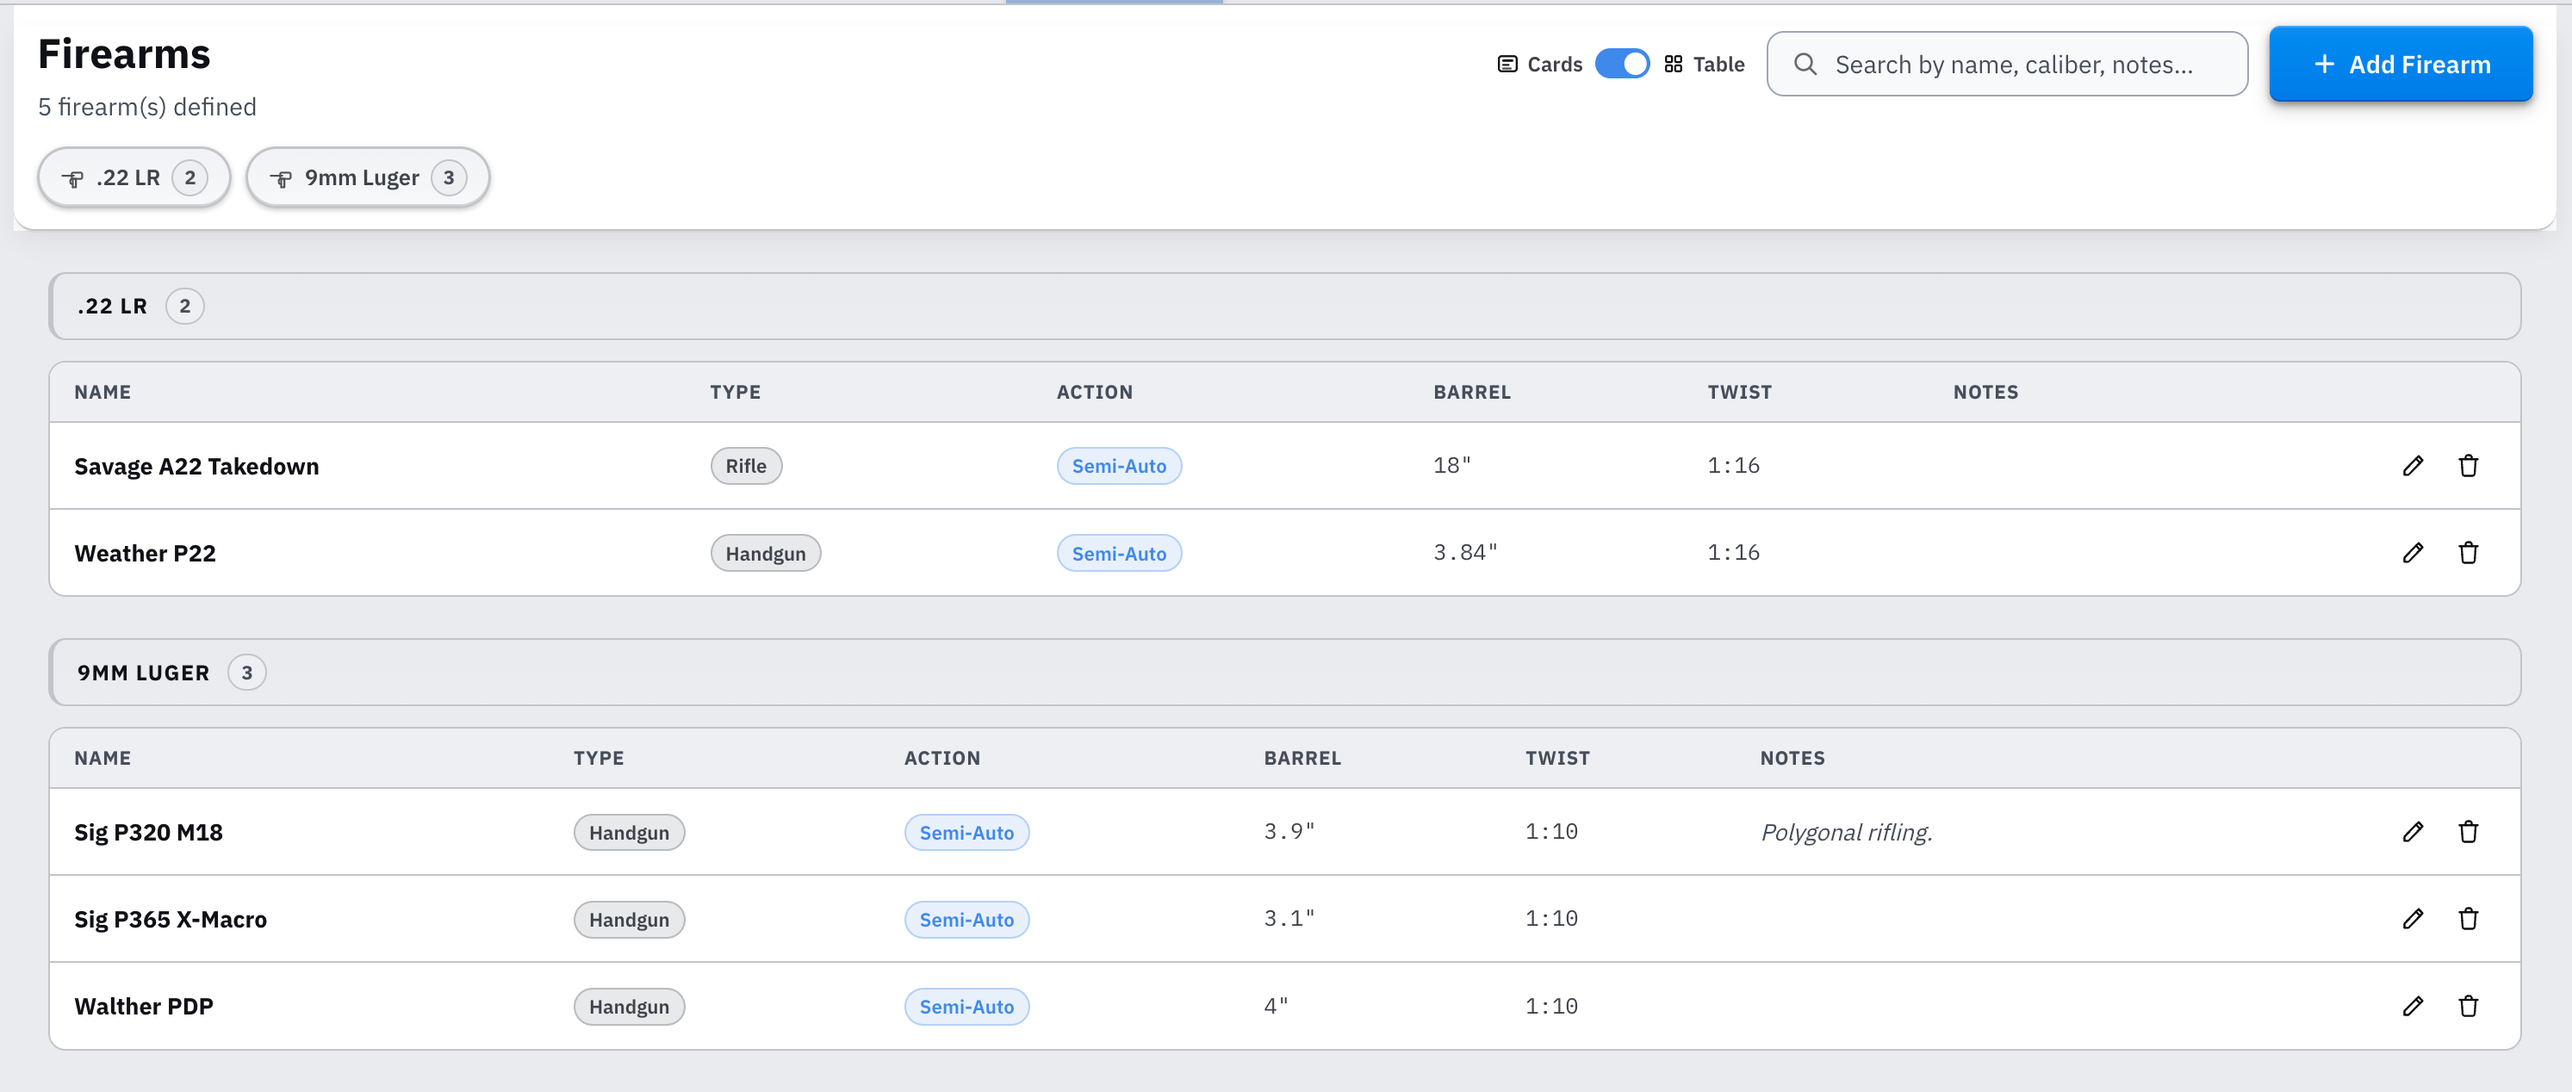
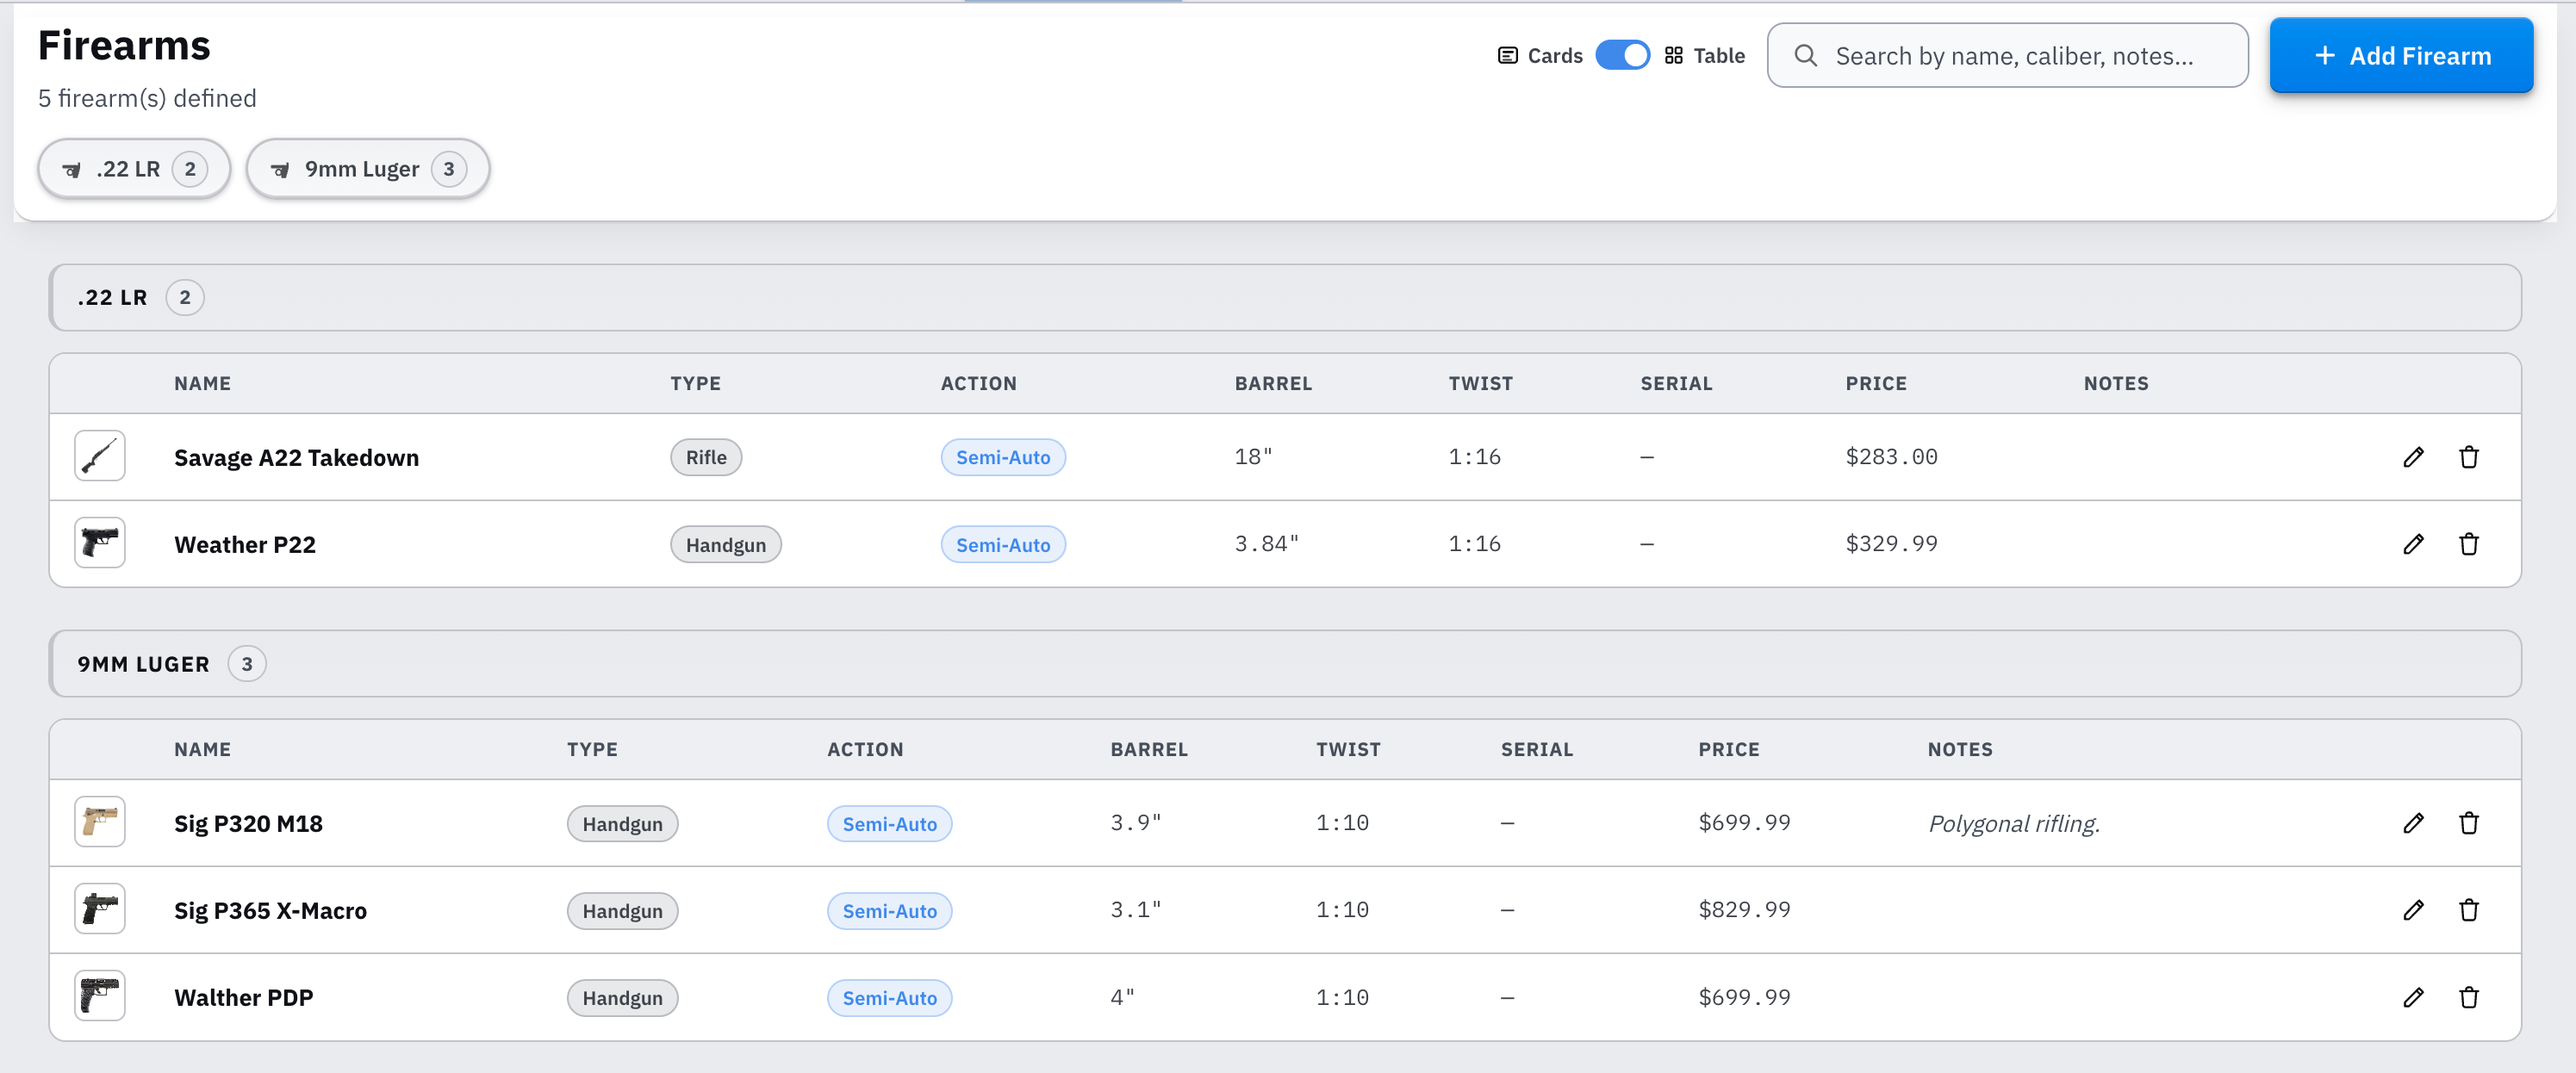
Updated firearm information and foto, brass information.

diff --git a/README.md b/README.md
@@ -1,4 +1,4 @@
-# Reloading Tracker 2.7.1: User Guide
+# Reloading Tracker 2.8.1: User Guide
 
 Reloading Tracker is your complete bench-to-range companion. It starts as a production log: define your loads, record every pressing session with a unique lot number, and print a label for every box on your shelf. And it grows with you from there.
 
@@ -158,7 +158,7 @@ The application has seven main tabs accessible from the navigation bar at the to
 |-----|---------|
 | **My Ammo** | Library of all your ammo entries: reloads and factory |
 | **My Components** | Global catalog of reloading components: powders, primers, bullets, and brass |
-| **Firearms** | Registry of your firearm profiles: type, caliber, action, barrel, and twist data |
+| **Firearms** | Registry of your firearm profiles: type, caliber, action, barrel, and twist data, plus a photo, serial number, and price |
 | **Journal** | Log pressing sessions with auto-incrementing lot numbers, dates, quantities, and notes |
 | **Range Log** | Record range sessions: firearm, distance, lots fired, round counts, performance notes |
 | **Targets** | Three sub-tabs: **Target Analysis**: upload target photos, mark impacts, measure group statistics, link to range sessions, and aggregate groups across multiple targets into one combined view; **Compare**: cross-target table of linked sessions, filterable by load, with MV, SD, computed group size, and mean radius, plus a summary bar showing best results per load; **Target Generator**: design and print custom target sheets with configurable scoring rings, grid overlays, and load annotations |
@@ -412,6 +412,8 @@ Like My Ammo, My Components also supports **Card** and **Table** views through t
 
 Click **Add Component** in the top-right corner, or click the small **+** button in any group header to pre-select that component type.
 
+The form is organised into labeled sections - **Basics** for every type (plus **Specs** and **Pricing** for bullets), and for brass, **Consistency & Fit** and **Annealing** on top of Basics - followed by a shared **Stock** section at the end.
+
 **Component Type**  
 Choose one of the four types using the selector buttons at the top of the form. Once a component is saved the type cannot be changed; duplicate it and delete the original if you need a different type.
 
@@ -430,6 +432,16 @@ Select **Imperial (lb)** or **Metric (kg)**. This carries through to any load th
 
 **Times Reloaded** *(brass only)*  
 How many reloads each case is expected to survive before replacement. This amortises the brass cost across that many rounds.
+
+**Consistency & Fit** *(brass only, optional)*  
+Fields aimed at precision reloading, where case-to-case consistency matters as much as cost:
+- **Case Weight (gr)** - average case weight, useful for judging lot consistency or comparing to a new batch.
+- **Dedicated Rifle** - a searchable dropdown of your Firearms Registry profiles. Use this when a batch of brass is fire-formed to one chamber (common with tight-neck or custom chambers) and shouldn't be mixed with brass for another rifle in the same caliber.
+- **Shoulder Bump (in)** - the target shoulder bump you dial in when full-length sizing for this brass/rifle combination, e.g. *0.002*.
+
+**Annealing** *(brass only, optional)*  
+- **Annealer** - the machine or method used, e.g. *AMP Press*, *torch*.
+- **Annealer Settings** - free text for the specifics of your process, e.g. *PID 4, 5.5s dwell*.
 
 **Notes**  
 Optional free-text field for lot numbers, suppliers, or any other reference.
@@ -450,12 +462,13 @@ Click **Save** to add the component. The card appears immediately in its group.
 
 Each component card shows:
 - Component name and type icon
-- **Price**: the raw price as entered (e.g. *$89.99 / 4 lb*)
-- **Per unit**: the derived cost per lb/kg or per single primer/bullet/case (e.g. *$22.50/lb*)
+- **Price**: the effective per-unit cost (e.g. *$22.50/lb*, or *$0.16 ea* for a primer). The raw price and quantity you entered stay editable as two separate fields in the form; only the derived per-unit figure is shown in the card or table to keep the list compact.
 - **Stock**: current quantity on hand, shown only when a stock quantity has been entered. Powder stock is shown to four decimal places; all other types show a whole number. A **Low** badge appears inline when the quantity is at or below the configured threshold.
 - Brass **Reloads** count (brass cards only)
 - Bullet **caliber**, **diameter** and **weight** (bullets only)
 - Notes (if any)
+
+For brass with any **Consistency & Fit** or **Annealing** fields set, a **Details** row appears with one or two small icon buttons - a ruler for Consistency & Fit, a flame for Annealing. Hover (or focus) an icon to see the full details in a tooltip; icons only appear for the categories that actually have data entered.
 
 ![Screenshot: Inventory card showing price and per-unit fields](./images/inventory-card.png)
 
@@ -472,6 +485,8 @@ Each component card has three action buttons:
 ![Screenshot: Inventory card action buttons](./images/inventory-card-actions.png)
 
 In **Table view**, the **Stock** column shows the current quantity on hand for each component, formatted with a unit suffix (*primers*, *rounds*, *cases*, *lb*, or *kg*). Components with no stock quantity set show a dash (-). A **Low** badge appears in the same cell when stock is at or below the threshold.
+
+For brass, an **Info** column shows the same Consistency & Fit / Annealing icon buttons as the card view, keeping the table compact instead of adding a separate column per field.
 
 ### 3.3 Linking Inventory to Loads
 
@@ -498,7 +513,7 @@ In the expanded card view under My Ammo, any component that originates from the 
 
 ## 4. Firearms Registry
 
-The **Firearms** tab is a dedicated catalog of the firearms you own and shoot. Every firearm you add here becomes available in the Range Log session form as a selectable option, keeping your range session records consistently tied to a known firearm profile rather than free-typed names. Profiles capture the mechanical details that matter for long-range and load-development work: caliber, action type, barrel length, and twist rate.
+The **Firearms** tab is a dedicated catalog of the firearms you own and shoot. Every firearm you add here becomes available in the Range Log session form as a selectable option, keeping your range session records consistently tied to a known firearm profile rather than free-typed names. Profiles capture the mechanical details that matter for long-range and load-development work - caliber, action type, barrel length, and twist rate - as well as a photo, serial number, and purchase price for your own records.
 
 ![Screenshot: Firearms tab showing firearm profiles in card view, grouped by caliber, with caliber filter chips](./images/firearms-overview.png)
 
@@ -510,15 +525,18 @@ Click **Add Firearm** in the top-right corner of the Firearms tab. A dialog open
 |-------|----------|-------------|
 | **Name** | Yes | A descriptive label for the firearm, e.g. *Remington 700 SPS*, *Glock 17 Gen 5*. |
 | **Firearm Type** | No | Broad category: **Rifle**, **Handgun**, **Shotgun**, or **Other**. |
-| **Caliber** | No | The cartridge the firearm is chambered in, e.g. *.308 Win*, *9mm Luger*. Used for grouping and caliber filter chips. |
 | **Action Type** | No | Operating mechanism: **Bolt**, **Semi-Auto**, **Lever**, **Pump**, **Single Shot**, **Revolver**, or **Other**. |
+| **Caliber** | No | The cartridge the firearm is chambered in, e.g. *.308 Win*, *9mm Luger*. Used for grouping and caliber filter chips. |
 | **Barrel Length** | No | Free text, e.g. *24 in*, *16.5"*. |
 | **Twist Rate** | No | Rifling twist rate, e.g. *1:10*, *1:8*. Relevant for bullet stabilisation in load development. |
+| **Photo** | No | Upload a photo of the firearm (HEIC photos from iPhone are converted automatically). It's resized and compressed for storage, then shown as a thumbnail everywhere the firearm appears - see 4.4 below. Click **Remove** to clear it. |
+| **Serial Number** | No | For your own records. |
+| **Price** | No | What you paid for the firearm. |
 | **Notes** | No | Any other reference: optics setup, known issues, purchase date, etc. |
 
 Click **Add Firearm** in the dialog footer to save. The profile appears immediately in the Firearms list and becomes available in the Range Log firearm selector.
 
-![Screenshot: Firearm form dialog showing Name, Firearm Type, Caliber, Action Type, Barrel Length, Twist Rate, and Notes fields](./images/firearm-form-dialog.png)
+![Screenshot: Firearm form dialog showing Name, Firearm Type, Action Type, Caliber, Barrel Length, Twist Rate, Photo, Serial Number, Price, and Notes fields](./images/firearm-form-dialog.png)
 
 ### 4.2 Managing Firearm Profiles
 
@@ -549,9 +567,11 @@ Clearing the search box resets the list to all profiles (subject to any active c
 
 The **Cards / Table** toggle in the page header switches the display layout. The preference is saved between sessions so the Firearms tab always opens in your last-used view.
 
-**Card view** (default): each firearm appears as a tile showing all populated fields. Fields that were left blank are omitted from the card to keep it uncluttered. The Type badge and Action tag appear as styled chips.
+**Card view** (default): each firearm appears as a tile showing all populated fields, including Serial Number and Price when set. Fields that were left blank are omitted from the card to keep it uncluttered. The Type badge and Action tag appear as styled chips. If a photo is set, it replaces the generic firearm icon in the card header as a small thumbnail.
 
-**Table view**: profiles are displayed as rows in a denser layout with columns for Name, Type, Action, Barrel, Twist, and Notes. This view is more efficient for scanning a large registry at a glance.
+**Table view**: profiles are displayed as rows in a denser layout with columns for Photo, Name, Type, Action, Barrel, Twist, Serial, Price, and Notes. This view is more efficient for scanning a large registry at a glance.
+
+**Photo thumbnails and hover-to-zoom**: wherever a firearm photo appears - the card header or the table's Photo column - it's shown as a small thumbnail. Hover over (or focus) a thumbnail to see the full-size photo in a popup, without leaving the list.
 
 In both views, profiles are grouped by caliber. Firearms without a caliber appear in an **Uncategorized** group at the bottom.
 
@@ -1117,8 +1137,12 @@ Each annotation has a **mode toggle**:
 
 | Mode | Fields |
 |------|--------|
-| **Handload** | **Journal Lot** (searchable dropdown from your journal entries), Firearm, Distance, Group size, Avg velocity, SD, Notes |
-| **Factory** | Cartridge name, Lot #, Firearm, Distance, Group size, Avg velocity, SD, Notes |
+| **Handload** | **Journal Lot** (searchable dropdown from your journal entries), Firearm, Shots, Distance, Notes |
+| **Factory** | Cartridge name, Lot #, Firearm, Shots, Distance, Notes |
+
+Firearm and Shots sit side by side in one row, directly above the matching Distance/Unit row, so the two line up.
+
+Group size, Avg velocity, and SD are **not** data-entry fields - they're not something you'd know before shooting. Instead they always print on the target as blank labelled fields (e.g. *GRP:*, *VEL:*, *SD:*) for you to fill in by hand at the range once you have the results.
 
 **Filling multiple targets quickly**
 
@@ -1293,7 +1317,7 @@ The application still defaults to the **dark theme** on first launch. If you ena
 
 ## 12. Import & Export
 
-Your entire library (ammo entries, tax defaults, equipment costs, load selections, component inventory, reloading journal, range log, firearm profiles, and target analysis records including photos) can be saved to a file and restored later or transferred to another computer.
+Your entire library (ammo entries, tax defaults, equipment costs, load selections, component inventory, reloading journal, range log, firearm profiles including photos, and target analysis records including photos) can be saved to a file and restored later or transferred to another computer.
 
 **Exporting**
 Click **Export** in the top navigation bar. A `.zip` file is downloaded to your machine. The archive contains all your data and any target photos you have uploaded, compressed into a single portable file.
